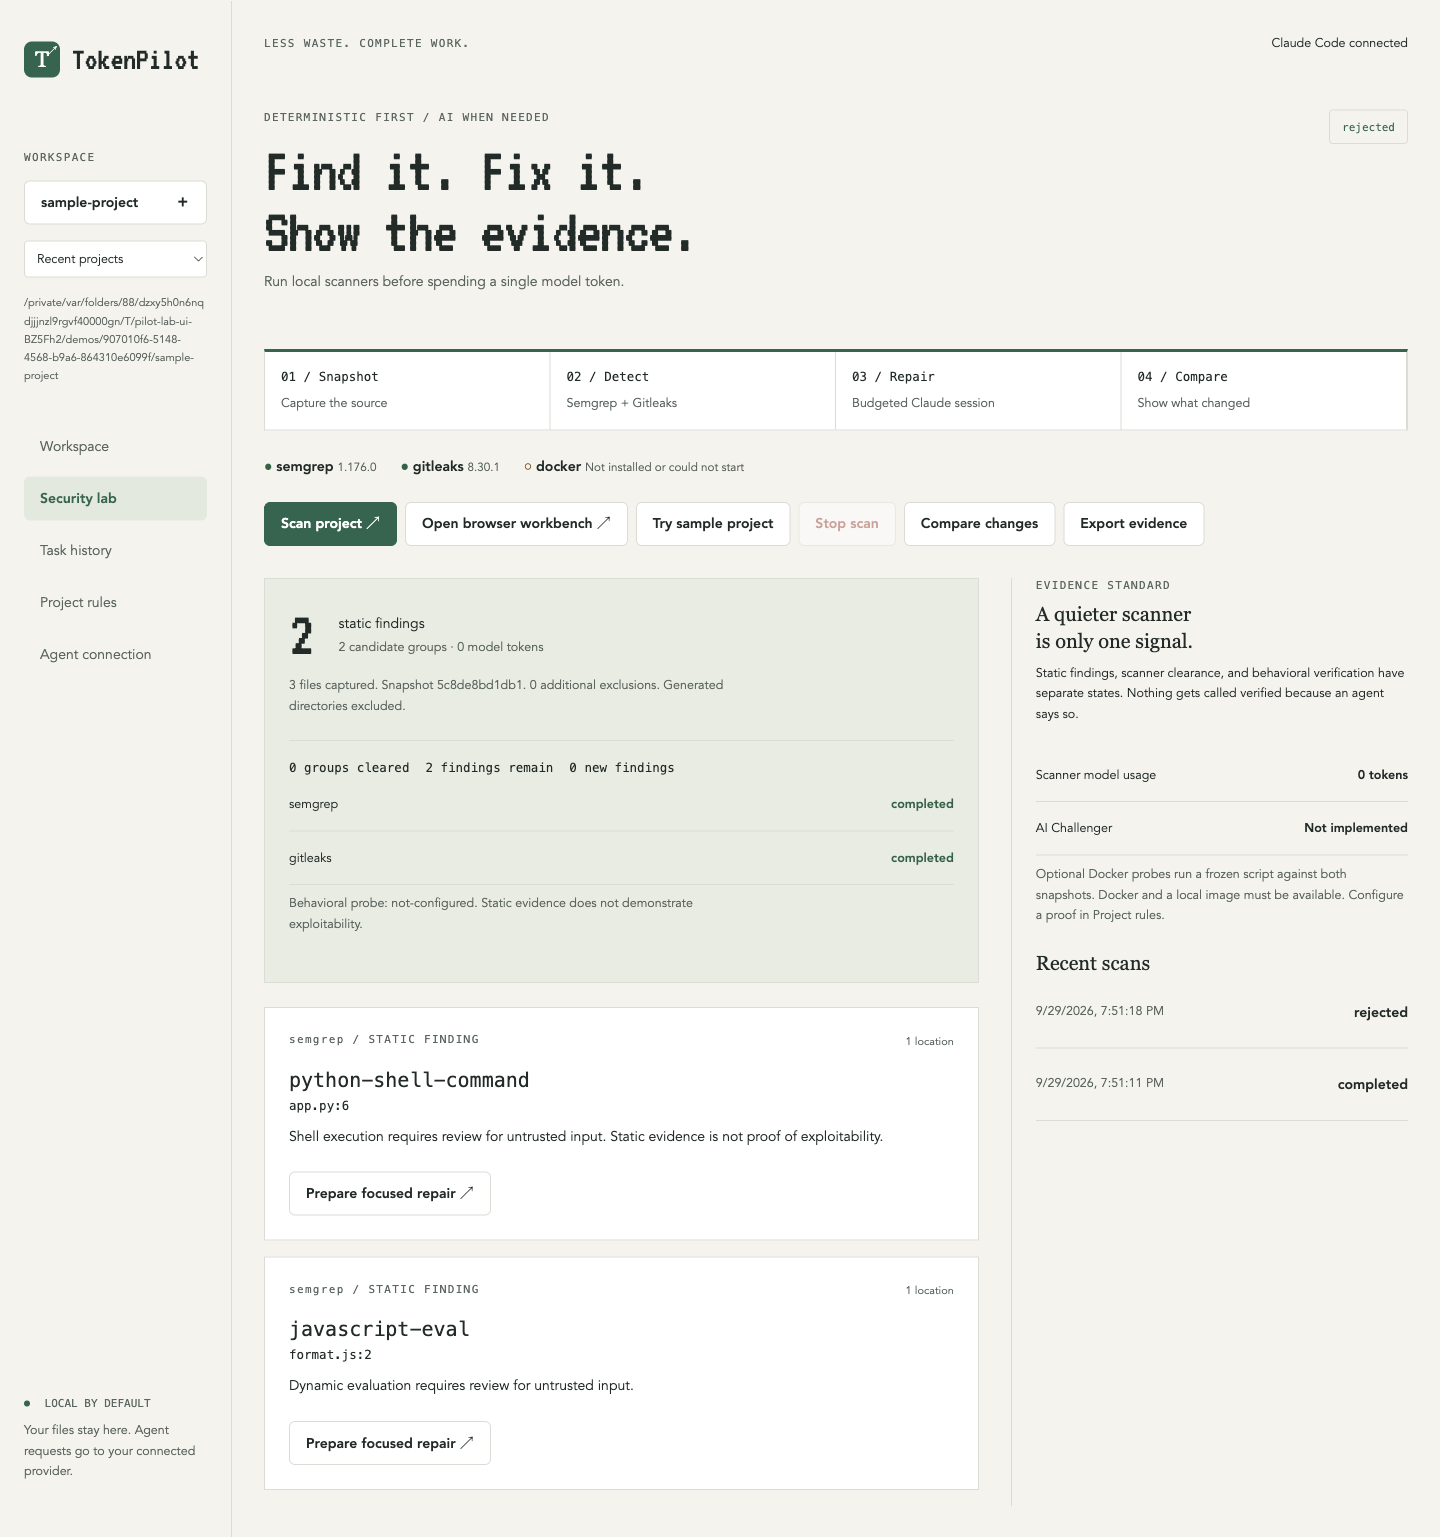
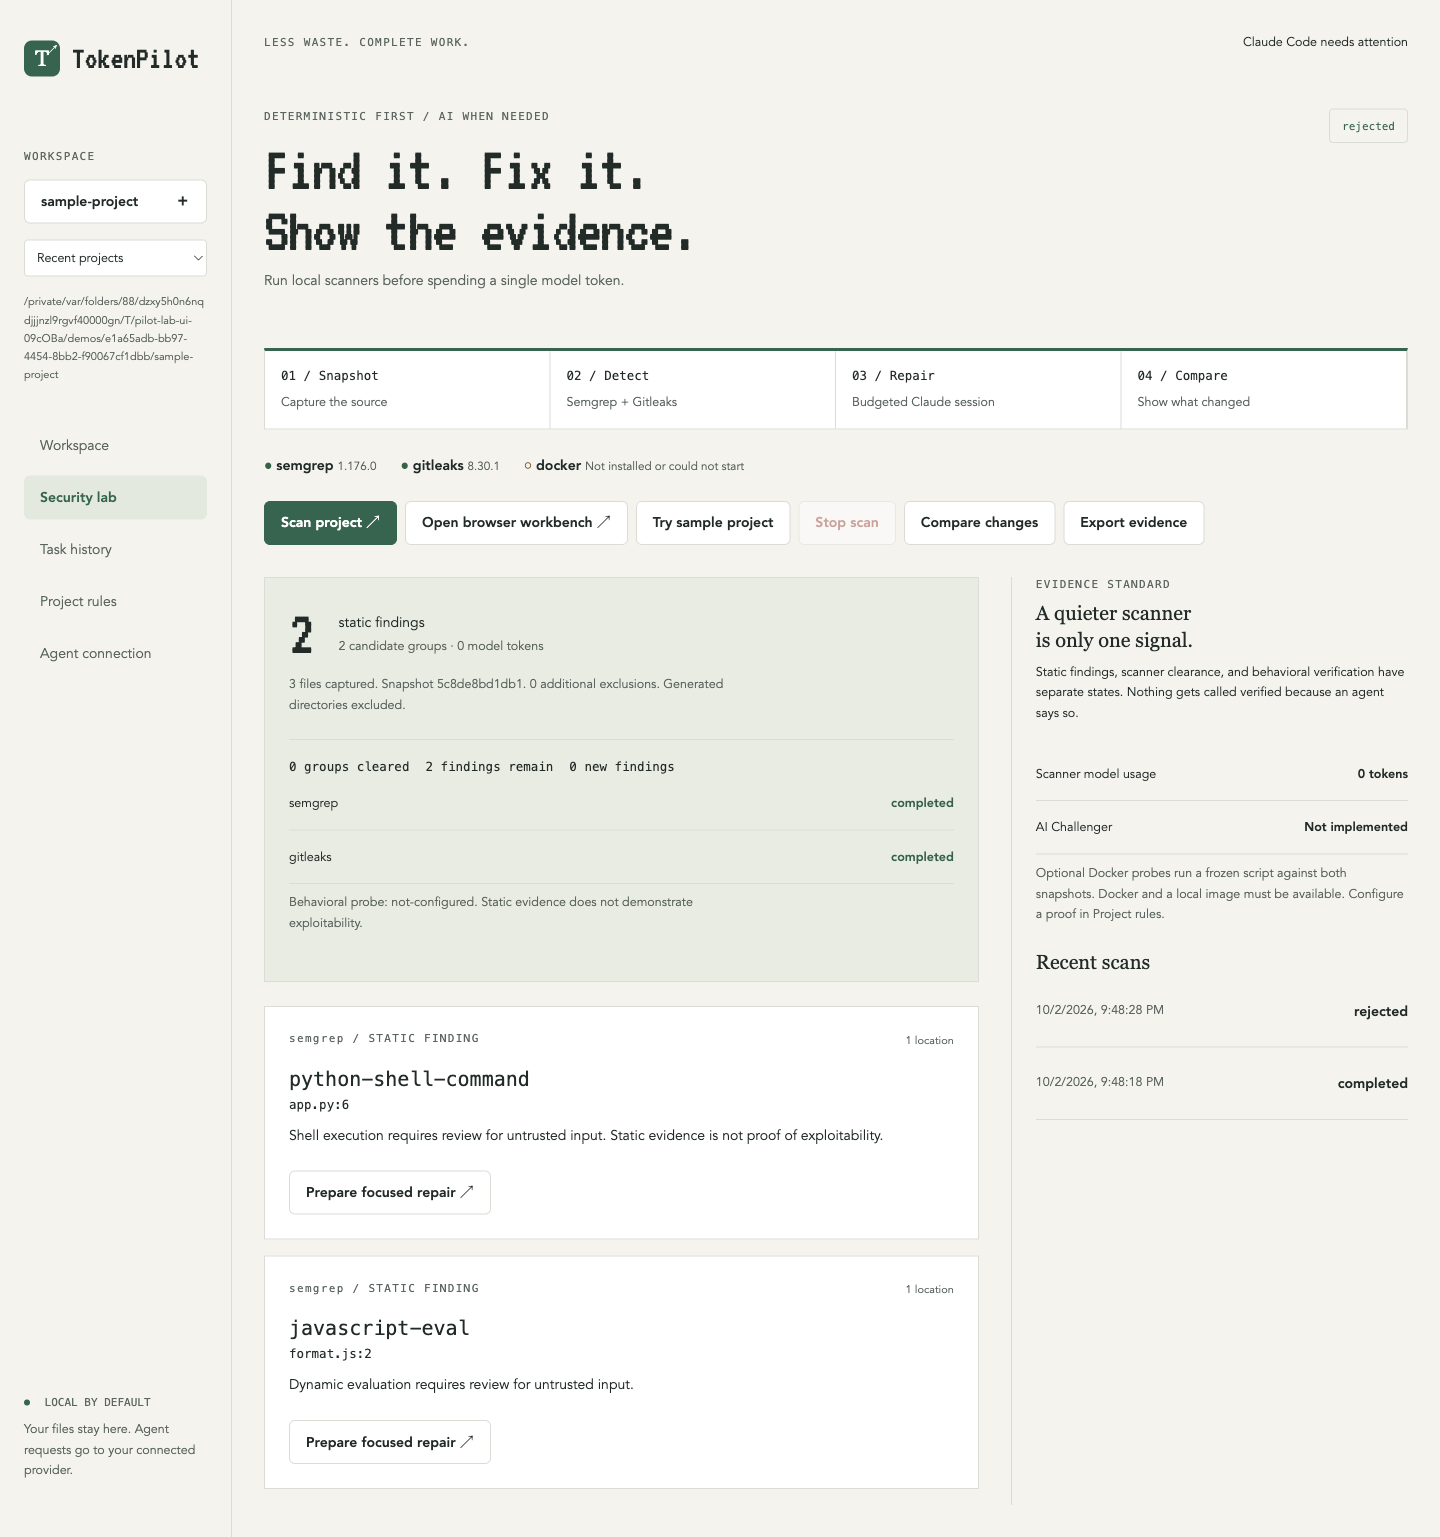
Add verified Mac installer and bundled CLI for 1.2.1

diff --git a/docs/INSTALL.md b/docs/INSTALL.md
@@ -1,0 +1,50 @@
+# Install TokenPilot 1.2.1
+
+Supported prebuilt release: macOS on Apple Silicon. The desktop runtime and CLI runtime are bundled; Node and npm are not required for this installation.
+
+```sh
+curl -fsSL https://github.com/gregorygerman777-hub/TOKENPILOT/releases/download/v1.2.1/install.sh | sh
+```
+
+[Read the script](../scripts/install.sh) first if you prefer. It checks the ZIP's SHA-256, verifies the app's identifier/version, installs `~/Applications/TokenPilot.app`, adds `~/.local/bin/tokenpilot`, and opens the app. It adds the CLI directory to `.zprofile` or `.bash_profile` for those shells. Other shells need that directory added manually. Restart Terminal after installation. No sudo, automatic scanner installation, or removal of macOS security attributes is performed. A previous TokenPilot app is retained as a timestamped backup; unrelated commands and symlinks are not overwritten.
+
+```sh
+brew install semgrep gitleaks
+tokenpilot status
+tokenpilot serve
+```
+
+Open the localhost URL printed by `serve`; keep Terminal running. You can also launch the desktop using `tokenpilot open`. `status` reports local scanner and Docker availability; it is not a daemon status command.
+
+The build is unsigned and not notarized. macOS may block its first launch. Review the app in System Settings > Privacy & Security and allow it only if you trust this release. The installer cannot guarantee unattended first launch.
+
+The DMG is an alternative desktop-only installation: drag TokenPilot into Applications. The one-line installer additionally sets up the CLI. Do not mix the two locations when upgrading.
+
+Local scans require Semgrep and Gitleaks but no AI account. AI repair requires Claude Code and your provider sign-in; batch repair also requires Git and a clean committed repository. Docker is only needed for the optional probe adapter, whose live execution is not validated. No independent AI Challenger is included.
+
+## Source and Claude plugin
+
+Download the source ZIP and open Terminal in the extracted TokenPilot folder. Use Node 24 and npm:
+
+```sh
+npm ci
+npm run web
+# Or launch the desktop:
+npm start
+```
+
+For the Claude Code plugin, run `Open TokenPilot in Claude.command` from that source folder. The binary installer does not globally register a Claude plugin.
+
+## Offline install and checksums
+
+Download the app ZIP and installer from the same release, then:
+
+```sh
+sh install.sh --archive TokenPilot-1.2.1-arm64-mac.zip
+```
+
+`--no-open` skips opening the app. `--no-path` skips shell-profile changes. `--prefix /absolute/directory` installs into a separate root and skips profile changes. These options are also used by the installer integration test.
+
+Checksums detect corrupted or unexpected downloads; they are not a code-signing identity. Keep local scan data in Application Support when removing or upgrading the app.
+
+Intel Mac, Windows and Linux prebuilt desktop downloads are not available in this release.

diff --git a/README.md b/README.md
@@ -6,6 +6,14 @@ Created by Gregory German, freshman computer science student. 100% open source u
 
 ![TokenPilot Security Lab scanning a demo project: 4 findings, 0 model tokens](site/screens/security-lab.png)
 
+## Install on Mac (Apple Silicon)
+
+```sh
+curl -fsSL https://github.com/gregorygerman777-hub/TOKENPILOT/releases/download/v1.2.1/install.sh | sh
+```
+
+Installs the desktop app and CLI with a bundled runtime, then opens TokenPilot. Open a new Terminal and run `tokenpilot status`. Install the scanners using `brew install semgrep gitleaks`. This release is unsigned and may require macOS approval. [Installation details](docs/INSTALL.md) · [Downloads and checksums](https://github.com/gregorygerman777-hub/TOKENPILOT/releases/tag/v1.2.1).
+
 ## The problem
 
 Most of what a coding agent spends goes into looking: listing files, searching, re-reading the same section, re-running a check that already failed. Scanners are the opposite. They find issues for free but never fix them. And when an agent does return a fix, a plausible diff is not the same as proof that the issue is gone.

diff --git a/docs/VALIDATION.md b/docs/VALIDATION.md
@@ -1,5 +1,14 @@
 # Validation record
 
+## Version 1.2.1
+
+- 41 automated tests passed, including real scanner and MCP integration tests.
+- Live browser flow passed sample scanning, findings, persisted history, exports, upload and error handling at four widths.
+- Installer integration passed checksum rejection before installation, actual app copy, paths with spaces, bundled CLI scanner detection, backup on reinstall and collision protection. Testing used an isolated prefix and did not alter the user shell profile.
+- Packaged Security Lab flow passed, including the local browser bridge. All source/backend, desktop UI, web UI and demo files match the packaged archive byte for byte.
+- No new paid-model savings benchmark or Docker execution was run. Previous benchmark limitations still apply.
+
+
 ## Version 1.2
 
 - 33 automated core, security, CI/export, HTTP and MCP integration tests passed. Real Semgrep and Gitleaks runs were included, with no skips on this Mac.

diff --git a/CHANGELOG.md b/CHANGELOG.md
@@ -1,3 +1,9 @@
+# 1.2.1
+
+- Add checksum-verified Apple Silicon installer, bundled-runtime CLI launcher and status alias.
+- Publish matching desktop, source, installer, checksums and website download instructions.
+- Preserve current deterministic diagnosis and repair pipeline.
+
 # Changelog
 
 ## Unreleased
